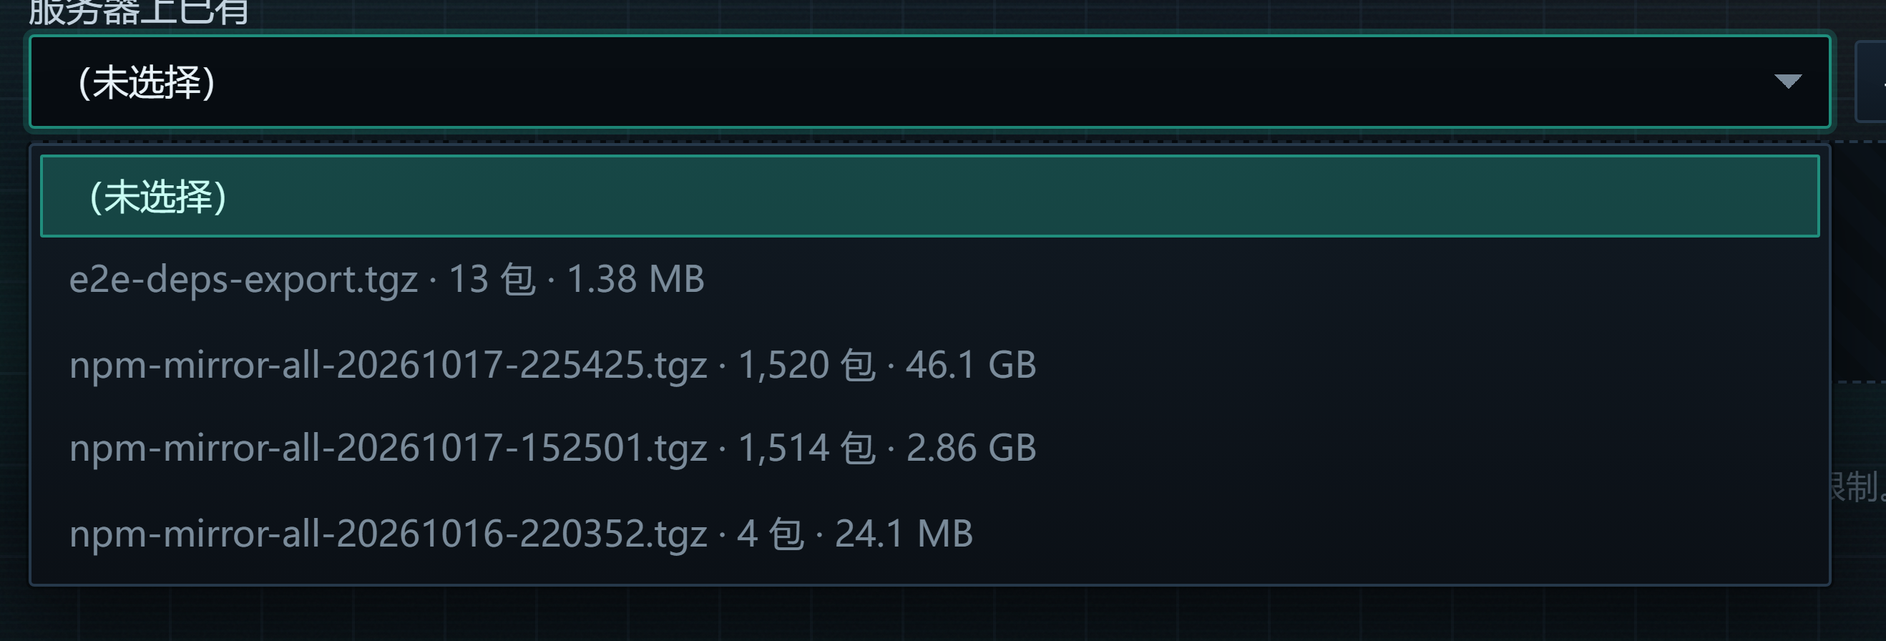
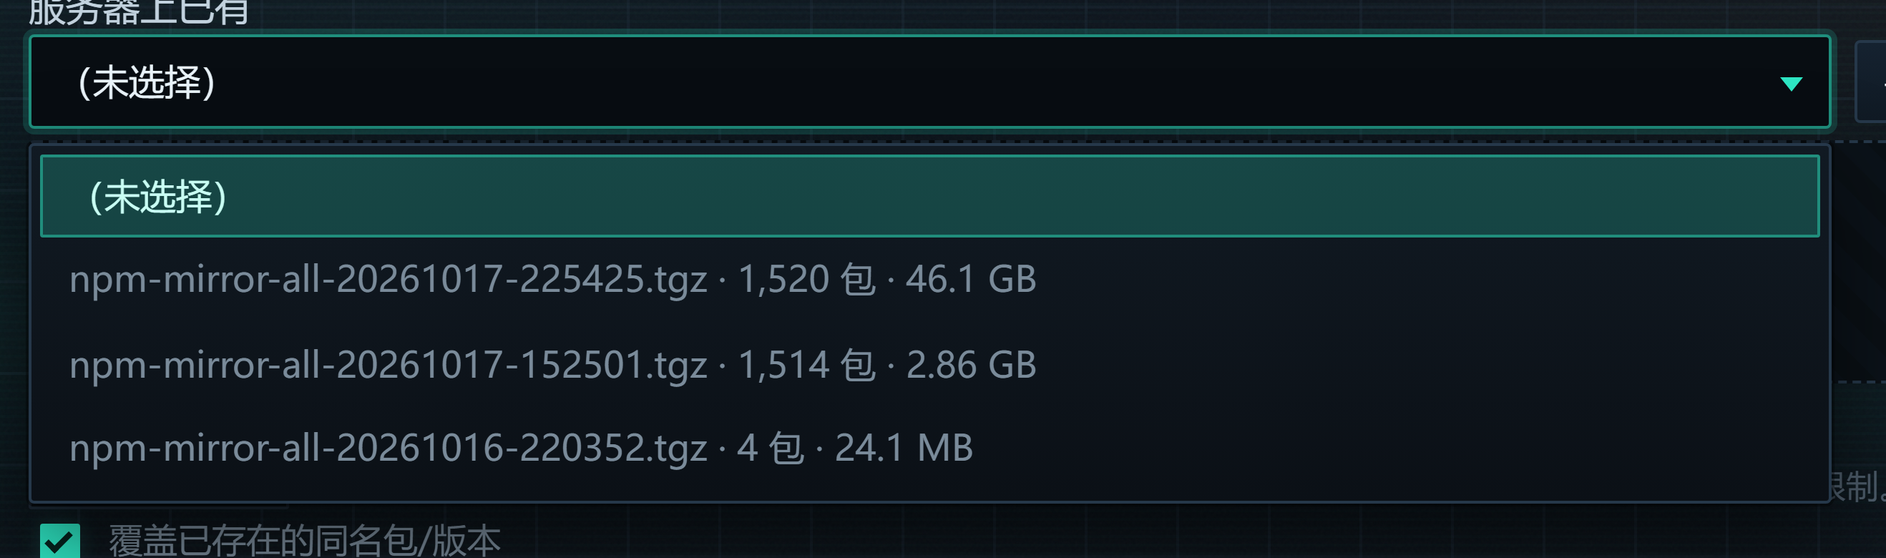
fix(ui): 下拉箭头随悬停/展开变青，复选框对勾与半选更清晰

diff --git a/public/style.css b/public/style.css
@@ -509,8 +509,12 @@ input[type=checkbox]{
 input[type=checkbox]:hover{border-color:var(--line-3)}
 input[type=checkbox]:checked{background:var(--cy);border-color:var(--cy);box-shadow:0 0 8px var(--cy-glow)}
 input[type=checkbox]:checked::after{
-  content:"";display:block;width:3px;height:7px;margin:1px 0 0 4px;
-  border:solid #06231e;border-width:0 2px 2px 0;transform:rotate(42deg);
+  content:"";display:block;width:5px;height:9px;margin:0 0 0 2.5px;
+  border:solid #06231e;border-width:0 2px 2px 0;transform:rotate(45deg);
+}
+input[type=checkbox]:indeterminate{background:var(--cy);border-color:var(--cy);box-shadow:0 0 8px var(--cy-glow)}
+input[type=checkbox]:indeterminate::after{
+  content:"";display:block;width:8px;height:2px;margin:5px 0 0 2px;background:#06231e;
 }
 input[type=checkbox]:disabled{opacity:.4;cursor:not-allowed}
 .checkline{display:inline-flex;align-items:center;gap:7px;font-size:12px;color:var(--txt-dim);cursor:pointer;user-select:none;padding-bottom:3px}
@@ -529,13 +533,19 @@ input[type=checkbox]:disabled{opacity:.4;cursor:not-allowed}
   background:#080d12;border:1px solid var(--line);border-radius:var(--r);
   color:var(--txt-hi);font-size:12.5px;font-family:var(--body);
   transition:border-color .15s,box-shadow .15s,background .15s;
-  background-image:linear-gradient(45deg,transparent 50%,var(--txt-dim) 50%),linear-gradient(135deg,var(--txt-dim) 50%,transparent 50%);
-  background-position:calc(100% - 14px) 51%,calc(100% - 9px) 51%;
-  background-size:5px 5px,5px 5px;background-repeat:no-repeat;
+}
+/* 右侧下拉箭头：边框三角，颜色跟随悬停 / 键盘聚焦 / 展开变成项目青色 */
+.csel-btn::after{
+  content:'';position:absolute;right:9px;top:50%;width:0;height:0;margin-top:-2px;
+  border-left:4px solid transparent;border-right:4px solid transparent;border-top:5px solid var(--txt-dim);
+  transition:border-top-color .15s;pointer-events:none;
 }
 .csel-btn:hover{border-color:var(--line-3)}
+.csel-btn:hover::after{border-top-color:var(--cy)}
 .csel-btn:focus-visible{outline:0;border-color:rgba(46,230,196,.6);box-shadow:0 0 0 2px var(--cy-glow);background-color:#0a1117}
+.csel-btn:focus-visible::after{border-top-color:var(--cy)}
 .csel-btn[aria-expanded=true]{border-color:rgba(46,230,196,.6);box-shadow:0 0 0 2px var(--cy-glow)}
+.csel-btn[aria-expanded=true]::after{border-top-color:var(--cy)}
 .csel-btn[disabled]{opacity:.5;cursor:not-allowed}
 .csel-label{overflow:hidden;text-overflow:ellipsis;white-space:nowrap}
 .field .csel{display:flex;width:100%}

diff --git a/test/ui-check.js b/test/ui-check.js
@@ -750,6 +750,21 @@ async function get(p, { json = false } = {}) {
         && /:focus-visible\{outline:2px solid rgba\(46,230,196,\.5\);outline-offset:2px\}/.test(cssCsel)
         && !/window\.confirm\(/.test(jsCsel)
         && /title: '覆盖已发布版本', sub: 'OVERWRITE', danger: true, confirmText: '覆盖'/.test(jsCsel));
+
+    check('下拉按钮右侧箭头在悬停 / 键盘聚焦 / 展开时变成项目青色（不再固定灰色）',
+      /\.csel-btn::after\{[\s\S]*?border-top:5px solid var\(--txt-dim\)/.test(cssCsel)
+        && /\.csel-btn:hover::after\{border-top-color:var\(--cy\)\}/.test(cssCsel)
+        && /\.csel-btn:focus-visible::after\{border-top-color:var\(--cy\)\}/.test(cssCsel)
+        && /\.csel-btn\[aria-expanded=true\]::after\{border-top-color:var\(--cy\)\}/.test(cssCsel)
+        && /\.dt-sel\[aria-expanded=true\]::after\{border-top-color:var\(--cy\)\}/.test(cssCsel)
+        && !/\.csel-btn\{[^}]*background-image/.test(cssCsel),
+      '箭头用边框三角绘制，颜色随状态切换，避免双渐变拼接的接缝');
+
+    check('复选框对勾放大加粗（5×9、45°）不再像斜线，全选「半选」态有横杠',
+      /input\[type=checkbox\]:checked::after\{[\s\S]*?width:5px;height:9px;[\s\S]*?rotate\(45deg\)/.test(cssCsel)
+        && /input\[type=checkbox\]:indeterminate\{background:var\(--cy\);border-color:var\(--cy\)/.test(cssCsel)
+        && /input\[type=checkbox\]:indeterminate::after\{[\s\S]*?width:8px;height:2px/.test(cssCsel),
+      '对勾两臂 5px/9px，浏览器整数取整后仍是清晰的 ✓；半选态画横杠');
   }
 
   console.log(`\n\x1b[1m结果：${pass}/${pass + fail} 通过\x1b[0m\n`);

diff --git a/public/app.js b/public/app.js
@@ -1341,6 +1341,14 @@
     paintSelbar();
     var tr = $('#pkg-tbody input[data-name="' + (window.CSS && CSS.escape ? CSS.escape(name) : name.replace(/"/g, '\\"')) + '"]');
     if (tr && tr.closest) { var row = tr.closest('tr'); if (row) row.classList.toggle('is-selected', !!on); }
+    /* 同步表头「全选」框：部分勾选显示半选横杠，而不是一直空着 */
+    var chkAll = $('#pkg-chk-all');
+    if (chkAll && state.pkg.items && state.pkg.items.length) {
+      var selCount = 0;
+      state.pkg.items.forEach(function (i) { if (state.pkg.selected[i.name]) selCount++; });
+      chkAll.checked = selCount === state.pkg.items.length;
+      chkAll.indeterminate = selCount > 0 && selCount < state.pkg.items.length;
+    }
   }
 
   function delPackage(name) {

diff --git a/使用说明.md b/使用说明.md
@@ -151,7 +151,7 @@ npm私人镜像源-离线版\
 | 查看包清单 | 包管理列表 | `node cli.js list` / `node cli.js stats` |
 | 从 npm 缓存补包 | 迁移备份 →「扫描缓存目录」→ 候选表分页浏览/筛选 →「导入选中」/「**仅导入不存在的包**」/「**全部导入**」（导入时弹**导入进度**窗口：整体进度 + 逐包详情 + 当前包大进度条，可取消；结束后提示「成功 N 个包（新增 M 个版本 / T 个 tarball），失败 F，跳过 K」） | `node cli.js scan-cache` + `node cli.js import-cache --all` |
 | 换端口 | 配置页改端口 → 保存 → 重启服务 | `node cli.js start --port 5000`（不改配置文件，仅本次） |
-| **下拉框统一样式** | 界面上所有下拉（包管理「来源 / 排序 / 每页条数」、迁移备份「服务器上已有」、日志页「行数 / 级别」、配置项下拉、版本分页等）展开后都是项目风格的自绘深色面板：青色选中/悬停、滚动条沿用项目样式，不会弹出浏览器/系统的白色列表；可用鼠标点，也可用键盘 ↑↓ / Enter / Esc / Tab，点面板外面自动关闭。搜索框的原生清除叉、数字框的原生上下箭头也已收掉 | — |
+| **下拉框统一样式** | 界面上所有下拉（包管理「来源 / 排序 / 每页条数」、迁移备份「服务器上已有」、日志页「行数 / 级别」、配置项下拉、版本分页等）展开后都是项目风格的自绘深色面板：青色选中/悬停、滚动条沿用项目样式，不会弹出浏览器/系统的白色列表；可用鼠标点，也可用键盘 ↑↓ / Enter / Esc / Tab，点面板外面自动关闭。下拉按钮右侧的小箭头会随悬停、键盘聚焦与展开一起变成青色。搜索框的原生清除叉、数字框的原生上下箭头也已收掉。复选框对勾加粗更清晰，全选「半选」态显示一条横杠 | — |
 
 > 说明：批量操作（批量删除、批量导出）走界面或 HTTP 接口；**补 tarball 是后台异步任务**：`POST /__admin/api/packages/pull` 立即返回 `taskId`，再用 `GET /__admin/api/tasks/<id>` 轮询进度（百分比、已下载字节、速率、剩余时间、逐包进度），`POST /__admin/api/tasks/<id>/cancel` 可取消；单包操作命令行也有对应命令（`add` / `remove` / `import` / `export`）。**只要有一个版本没下到，弹窗就不会自动关闭**，会保留失败明细。
 
@@ -194,7 +194,7 @@ npm私人镜像源-离线版\
 | --- | --- | --- |
 | `test/api-test.js` | **241 项**（上游可达时会额外执行 3 项自动补依赖用例，共 244 项；本机实测 235 通过 + 6 项跳过、0 失败，上游可达时 239 通过 + 5 跳过；跳过含 2 项破坏性用例「重启服务 / 清空日志」需加 `--destructive` 开启，其余为条件跳过）：npm 协议、管理接口、公共包回源、私有包发布、上传、一键补 tarball（含后台任务/进度/并发/取消/失败判定）、**任务快照里的逐版本下载进度（`downloads[]`：name/version/received/total，400ms 节流、并发时多条、结束后清空）**、按版本补、**只补最新版本**、**全部包补（不用勾选、自动跳过仅本地的包）**、**全部包补全部版本（`mode=all` 规划到每个包的每个缺失版本、任务标题与可取消、目标数不小于 dist-tag 模式）**、**每个版本的真实发布时间（不能用本地时间顶替）**、**递归添加依赖（层级限制/闭包完整/多版本共存/非注册表依赖识别/带空格范围 `>= 2.1.2 < 3` 的正确解析/`npm:` 别名）**、**包管理页「缺 tarball / 不缺 tarball」快捷筛选（`tarballs=missing|complete` 命中数之和 = 全部包数、各自与逐包 `store.missingTarballs()` 扫描一致、未知取值按「全部」处理）**、离线包导出导入、**导出时自动补齐缺失依赖（cache 模式自动下载入库后一起导出、`autoFetchDeps:false` 不联网、依赖下载失败不中断导出并写明原因、manifest 记录 autoFetch 摘要、自动下载的依赖会被清理）**、**网页上传整机备份（原始体流式导入、声明体积超限提前 413、空请求体 400、会话/列表暴露上传上限、非法上限 400）**、**导出/导入备份的详细进度任务（progress:true → taskId → 轮询到终态、逐包 packages[] 明细、result 字段、原始体 `?progress=1`、**导出收尾写盘阶段（`phase:'concat'` + `concatDone/concatTotal/concatParts` → `phase:'finalize'`）**、取消导出）**、**导出/导入并行（并发配置默认 4、非法并发 400、任务快照带 concurrency、并行打包产物可正常解析、并行导入结果与串行一致）与「tarball 根目录名不是 package」的兼容（自造 odd-root/ 根目录的包能正常导入、导入后能取到版本）**、**tarball 内版本写法被 npm 规范化（packument 1.0.0-beta / tarball 内 1.0.0beta）也能导入**、**任务快照里逐包原因（缺 tarball 的包为 skipped + 「bundle 内缺少 N 个版本的 tarball」、校验失败的包为 failed + integrity 原因，供导入结果详情面板使用）**、单版本删除、npm 缓存导入、**本机缓存导入的进度任务（progress:true → taskId → 逐包 packages[]/current 字段）**、鉴权与服务控制、**安全回归（tarball 路径穿越必须 400/404 且不泄露令牌、管理接口 Origin:null 403、非法配置 400、非法包名 400、版本范围/预发布比较）** | 先启动服务，再 `node test/api-test.js` |
 | `test/acceptance-npm.ps1` | **16 项**：用**真实 npm 命令**跑完整生命周期（install / publish / view / dist-tag add-ls-rm / deprecate / unpublish） | `pwsh -NoProfile -File test\acceptance-npm.ps1` |
-| `test/ui-check.js` | **141 项**：界面静态资源、无外链、前端调用的接口后端都有实现、首屏接口可用、`[hidden]` 兜底样式、**悬停提示自绘浮层（首页无原生 `title`、`el()` 把 `title` 映射成 `data-tip`、`uiTip` 控制器与 `.ui-tip` 样式、项目配色变量）**、**favicon 声明与图标路由（`<link rel="icon">`、GET /favicon.ico 返回项目图标）**、**补 tarball 进度弹窗右栏「版本进度」（每个并发下载版本一行、实时字节文本、上游逐块上报链路、api.js 透传 `downloads`）**、**三个「全部包」批量入口（dist-tag / 最新 / 全部版本）的按钮、绑定、确认框估算和作用域**、**导出依赖闭包与「缺的依赖自动从上游下载并入库」勾选框（`#exp-auto-fetch`、`autoFetchDeps` 透传、结果展示自动下载数量）**、**包管理页「缺 tarball / 不缺 tarball」快捷筛选（两个分段按钮与文案、列表请求带 `&tarballs=`、再点一次取消筛选、后端 store/api 口径、真接口逐行校验）**、**补 tarball 进度弹窗左栏行数上限回收（超过 500 行时收起已完成行、失败/下载中行保留、顶部提示条、源码注入单测）**、**导出/导入进度弹窗右栏多行进度（`inFlight`：导出「并行文件」一行一个正在压缩的条目、导入一个包一行；任务结束清空）**、**导出收尾写盘阶段（`concat` 字节进度 → 任务快照 → 右栏「正在写入 · 拼接分片」，压缩阶段最多 95%）**、**导入进度弹窗（进度行/逐包详情/后端 progress 分支）**、**导入备份的网页上传上限预检与本地文件通路（`#imp-limit-hint`、超限直接拦截并指引 data\bundles、上传错误文案、配置页「离线包上传上限」、服务端流式落盘/提前 413/requestTimeout/413·408 warn 日志）**、**导出/导入备份的详细进度条（整体进度条 + 统计行 + 左右两栏 + 逐包明细 + 当前包大进度条 + XHR 上传字节进度 + /tasks 轮询与取消 + 分阶段说明）**、**离线包并行导出/导入（并发配置默认 4 与范围校验、配置页两个并发字段、多段 gzip 拼接、onEntryDone 条目映射、worker 池按包并行、任务快照 concurrency、「并行 N 路」文案）与「tarball 根目录名不是 package」兼容（readRootPackageJson、根级一层目录正则、兼容导入、跳过原因文案）**、**导入结束后的「导入结果详情」（onFinalize 钩子、失败逐条不重复前缀、跳过按原因归类、复制清单按钮 + 剪贴板回退、可滚动样式）**、**弹窗/抽屉/面板/统计卡内部背景复用整页动态背景（`.fx-box` 动效层 + `isolation:isolate`，与整页网格/扫过亮带一致，不挡点击）**、**导出「按添加时间」范围（segbar 与 `#exp-added-row`、项目风格自绘日期时间选择器、payload `addedFrom/addedTo`、后端 `parseTimeBound/normalizeAddedRange/pkgAddedInRange`、manifest `addedTimeRange`、非法/空范围 400 与提示）与进度弹窗「取消」等待期禁用（`requestTaskCancel` 置灰/「正在取消…」、失败恢复）**、**原生下拉改项目风格自绘下拉（`csel*` 实现：7 个静态 `<select>` + 动态创建/重建选项自动接管、`.csel-btn`/`.csel-menu` 样式与青色选中/悬停、键盘 ↑↓/Enter/Esc 与点外关闭、保留原生 `value`/`change` 语义）**、**搜索框清除叉 / 数字框上下箭头收掉、`:focus-visible` 统一青色描边、原生 `window.confirm` 换 `confirmBox`** | 先启动服务，再 `node test/ui-check.js` |
+| `test/ui-check.js` | **143 项**：界面静态资源、无外链、前端调用的接口后端都有实现、首屏接口可用、`[hidden]` 兜底样式、**悬停提示自绘浮层（首页无原生 `title`、`el()` 把 `title` 映射成 `data-tip`、`uiTip` 控制器与 `.ui-tip` 样式、项目配色变量）**、**favicon 声明与图标路由（`<link rel="icon">`、GET /favicon.ico 返回项目图标）**、**补 tarball 进度弹窗右栏「版本进度」（每个并发下载版本一行、实时字节文本、上游逐块上报链路、api.js 透传 `downloads`）**、**三个「全部包」批量入口（dist-tag / 最新 / 全部版本）的按钮、绑定、确认框估算和作用域**、**导出依赖闭包与「缺的依赖自动从上游下载并入库」勾选框（`#exp-auto-fetch`、`autoFetchDeps` 透传、结果展示自动下载数量）**、**包管理页「缺 tarball / 不缺 tarball」快捷筛选（两个分段按钮与文案、列表请求带 `&tarballs=`、再点一次取消筛选、后端 store/api 口径、真接口逐行校验）**、**补 tarball 进度弹窗左栏行数上限回收（超过 500 行时收起已完成行、失败/下载中行保留、顶部提示条、源码注入单测）**、**导出/导入进度弹窗右栏多行进度（`inFlight`：导出「并行文件」一行一个正在压缩的条目、导入一个包一行；任务结束清空）**、**导出收尾写盘阶段（`concat` 字节进度 → 任务快照 → 右栏「正在写入 · 拼接分片」，压缩阶段最多 95%）**、**导入进度弹窗（进度行/逐包详情/后端 progress 分支）**、**导入备份的网页上传上限预检与本地文件通路（`#imp-limit-hint`、超限直接拦截并指引 data\bundles、上传错误文案、配置页「离线包上传上限」、服务端流式落盘/提前 413/requestTimeout/413·408 warn 日志）**、**导出/导入备份的详细进度条（整体进度条 + 统计行 + 左右两栏 + 逐包明细 + 当前包大进度条 + XHR 上传字节进度 + /tasks 轮询与取消 + 分阶段说明）**、**离线包并行导出/导入（并发配置默认 4 与范围校验、配置页两个并发字段、多段 gzip 拼接、onEntryDone 条目映射、worker 池按包并行、任务快照 concurrency、「并行 N 路」文案）与「tarball 根目录名不是 package」兼容（readRootPackageJson、根级一层目录正则、兼容导入、跳过原因文案）**、**导入结束后的「导入结果详情」（onFinalize 钩子、失败逐条不重复前缀、跳过按原因归类、复制清单按钮 + 剪贴板回退、可滚动样式）**、**弹窗/抽屉/面板/统计卡内部背景复用整页动态背景（`.fx-box` 动效层 + `isolation:isolate`，与整页网格/扫过亮带一致，不挡点击）**、**导出「按添加时间」范围（segbar 与 `#exp-added-row`、项目风格自绘日期时间选择器、payload `addedFrom/addedTo`、后端 `parseTimeBound/normalizeAddedRange/pkgAddedInRange`、manifest `addedTimeRange`、非法/空范围 400 与提示）与进度弹窗「取消」等待期禁用（`requestTaskCancel` 置灰/「正在取消…」、失败恢复）**、**原生下拉改项目风格自绘下拉（`csel*` 实现：7 个静态 `<select>` + 动态创建/重建选项自动接管、`.csel-btn`/`.csel-menu` 样式与青色选中/悬停、键盘 ↑↓/Enter/Esc 与点外关闭、保留原生 `value`/`change` 语义）**、**搜索框清除叉 / 数字框上下箭头收掉、`:focus-visible` 统一青色描边、原生 `window.confirm` 换 `confirmBox`**、**下拉按钮右侧箭头在悬停/键盘聚焦/展开时变青（边框三角，不再用双渐变）**、**复选框对勾 5×9、45° 加粗与全选「半选」横杠、勾选单行时表头同步半选** | 先启动服务，再 `node test/ui-check.js` |
 | `test/tray-check.js` | **48 项**（Windows）：`tools\tray.ps1` 契约（托盘图标 = 项目 favicon、左键显示/右键动态菜单、只显示与当前窗口状态对应的项、就绪后才隐藏、WM_SETICON、退出时走 `/service/shutdown` 并关窗、服务外部停止后自动退出、UTF-8 BOM）、`public\favicon.ico` 结构（多尺寸/32 位/偏移合法）、`启动镜像源.cmd`（`start /b powershell` 拉起托盘、不传 `-Root`、保留前台 `node cli.js start`、`%*` 透传、`MIRROR_AUTOSTART` 隐藏启动）、**开机自启（`.vbs` UTF-16LE 启动项、VBS 内容、旧 `.cmd` 清理、`off` 幂等、`status`，临时目录真跑）**、server.js 的 favicon 分支并实测 `GET /favicon.ico` 与图标文件字节一致，最后真跑一次托盘 `-SelfTest` 校验菜单文案与图标加载 | 先启动服务，再 `node test/tray-check.js` |
 | `test/tray-e2e.ps1` | **托盘端到端（8 项，手工跑）**：隔离副本里用真实 `启动镜像源.cmd` 启动 → 服务在线 + 命令行窗口被隐藏 + 托盘日志正确 → 窗口能被重新显示（模拟左键）→ `cli.js stop` 后托盘自动退出并关窗 | `powershell -NoProfile -ExecutionPolicy Bypass -File test\tray-e2e.ps1`（需真实桌面；不碰真实实例数据） |
 | `test/ui-e2e-fill.js` | 真机（无头浏览器）点击「勾选包 → 补 tarball」，采样**真实进度百分比/速率**并截图 | `node test/ui-e2e-fill.js --pkg ms --mode all`（沙箱内需放宽权限） |

diff --git a/报告.md b/报告.md
@@ -107,7 +107,7 @@ npm私人镜像源-离线版\
 ├─ 截图\                            管理界面六个页面的实拍 PNG
 └─ test\                            自检与验收脚本
     ├─ api-test.js        2579 行   服务端 + npm 协议（当前 241 项；环境不足 / 破坏性用例会显式 SKIP）
-    ├─ ui-check.js         769 行   界面 141 项
+    ├─ ui-check.js         784 行   界面 143 项
     ├─ tray-check.js               托盘/图标/启动脚本/开机自启 48 项（含真跑一次托盘自检）
     ├─ tray-e2e.ps1                托盘端到端手工脚本（隔离副本，需真实桌面）
     ├─ acceptance-npm.ps1  141 行   真实 npm 客户端 16 项
@@ -939,10 +939,10 @@ pwsh test/acceptance-npm.ps1 →  16/16 通过
 | --- | --- |
 | 用户要求 | 用户发来截图（迁移备份 →「导入备份」→「服务器上已有」的下拉，展开是浏览器原生白色列表）并提出：「下拉选择的弹窗也和项目风格不一致，需要调整。彻底检查项目中其他的与项目风格不一致的组件、元素，然后调整为和项目风格一致。」 |
 | 结论 | 原生 `<select>` 展开的列表、搜索框的清除叉、数字框的上下箭头、`window.confirm` 对话框都由浏览器/系统绘制，CSS 改不了颜色与结构；统一换成项目风格自绘组件，同时保留原生 `value`/`change` 语义，业务代码零改动 |
-| 改动 | ① `public/app.js` 新增通用自绘下拉：`cselEnhance(sel)` 把每个 `<select>` 包进 `.csel` 容器（原生 select 隐藏、`.csel-btn` 显示当前项、`.csel-menu` 挂到 body 按 fixed 定位），`cselBuild/cselShow/cselClose/cselPlace` 负责构建/展开/关闭/定位（下方放不下自动翻到上方、夹在视口内），`cselPick` 写回 `selectedIndex` 并派发原生 `input`+`change`，`cselOnKey` 支持 ↑↓ / Enter / Space / Esc / Tab，`cselOnDown`/`cselOnScroll` 点外面或滚动自动关闭；`initCustomSelects()` 启动时接管全部 select，并用 `MutationObserver` 自动接管动态创建的 select 与重建的选项（包详情分页、配置项、导入备份列表）；`data-tip` 从 select 搬到按钮上。② `public/style.css` 新增 `.csel-btn`（深色按钮、双三角箭头、hover/展开青色描边、禁用半透明）、`.csel-menu`（深色渐变面板、`.csel-opt` 悬停青色淡底、选中项青色填充 + 描边、沿用项目全局 10px 深色滚动条）；③ 全站原生小部件清理：搜索框原生清除叉、数字框原生上下箭头全部隐藏，`:focus-visible` 统一青色描边；④ 上传同名版本 409 时的 `window.confirm` 换成项目自绘 `confirmBox`（标题「覆盖已发布版本」、danger 红、详细说明） |
-| 实测 | 真机（1680×1080，无头 Chrome）：7 个静态 `<select>` + 2 个动态 select 全部接管，原生 select `display:none`；包管理「来源」下拉 5 项、深色菜单、选中/悬停青色高亮（截图 [截图/包管理-来源筛选-自绘下拉.png](截图/包管理-来源筛选-自绘下拉.png)）；键盘 ↓ ↓ Enter 把值切到 `private` 并触发 `change`（包列表重新加载）；迁移页「服务器上已有」下拉 4 个备份、长文件名不溢出、选择后按钮文字同步（截图 [截图/导入备份-bundle下拉-自绘.png](截图/导入备份-bundle下拉-自绘.png)）；配置页「运行模式」下拉 2 项、选中项青色（截图 [截图/配置-运行模式-自绘下拉.png](截图/配置-运行模式-自绘下拉.png)）；点页面空白处弹层关闭；搜索框输入 `react` 后没有原生清除叉（截图 [截图/包管理-搜索框无原生清除叉.png](截图/包管理-搜索框无原生清除叉.png)）、数字框聚焦后没有上下箭头（截图 [截图/配置-数字输入框无上下箭头.png](截图/配置-数字输入框无上下箭头.png)）；自绘按钮与项目输入框同高（33.375px）同字号（12.5px） |
-| 测试 | `test/ui-check.js` 新增「十之四、原生下拉改自绘 + 全站原生小部件清理」3 项（原生 select 全部接管 + MutationObserver、自绘下拉样式/键盘/change 语义、原生小部件清理 + confirmBox）→ **141/141 通过**；`api-test` 未重跑（纯前端改动）；无头浏览器回归：`ui-e2e-detail.js` exit 0 全过、`ui-e2e-migrate.js` **58/58**、`ui-e2e-fill-all.js` **37/37**（`ui-e2e-fill.js` 因该包 tarball 已补齐、观察不到下载中间态退出 1，属环境限制） |
-| 截图 | [截图/包管理-来源筛选-自绘下拉.png](截图/包管理-来源筛选-自绘下拉.png)、[截图/导入备份-bundle下拉-自绘.png](截图/导入备份-bundle下拉-自绘.png)、[截图/配置-运行模式-自绘下拉.png](截图/配置-运行模式-自绘下拉.png)、[截图/包管理-搜索框无原生清除叉.png](截图/包管理-搜索框无原生清除叉.png)、[截图/配置-数字输入框无上下箭头.png](截图/配置-数字输入框无上下箭头.png) |
+| 改动 | ① `public/app.js` 新增通用自绘下拉：`cselEnhance(sel)` 把每个 `<select>` 包进 `.csel` 容器（原生 select 隐藏、`.csel-btn` 显示当前项、`.csel-menu` 挂到 body 按 fixed 定位），`cselBuild/cselShow/cselClose/cselPlace` 负责构建/展开/关闭/定位（下方放不下自动翻到上方、夹在视口内），`cselPick` 写回 `selectedIndex` 并派发原生 `input`+`change`，`cselOnKey` 支持 ↑↓ / Enter / Space / Esc / Tab，`cselOnDown`/`cselOnScroll` 点外面或滚动自动关闭；`initCustomSelects()` 启动时接管全部 select，并用 `MutationObserver` 自动接管动态创建的 select 与重建的选项（包详情分页、配置项、导入备份列表）；`data-tip` 从 select 搬到按钮上。② `public/style.css` 新增 `.csel-btn`（深色按钮、右侧三角箭头、hover/展开青色描边、禁用半透明）、`.csel-menu`（深色渐变面板、`.csel-opt` 悬停青色淡底、选中项青色填充 + 描边、沿用项目全局 10px 深色滚动条）；③ 全站原生小部件清理：搜索框原生清除叉、数字框原生上下箭头全部隐藏，`:focus-visible` 统一青色描边；④ 上传同名版本 409 时的 `window.confirm` 换成项目自绘 `confirmBox`（标题「覆盖已发布版本」、danger 红、详细说明）；⑤ 下拉按钮右侧箭头改为**边框三角**绘制（`::after`，不再用两条 `linear-gradient` 拼，避免展开时颜色不变和接缝），悬停 / 键盘聚焦 / 展开三态都变项目青色 `var(--cy)`；⑥ 复选框选中对勾由 3×7/42° 改为 **5×9/45° 并加粗**（14px 实际尺寸下不再是「一根斜线」），全选「半选」态补画横杠，并修 `toggleSelect` 勾选单行时表头全选框不更新 `indeterminate` 的问题 |
+| 实测 | 真机（1680×1080，无头 Chrome）：7 个静态 `<select>` + 2 个动态 select 全部接管，原生 select `display:none`；包管理「来源」下拉 5 项、深色菜单、选中/悬停青色高亮（截图 [截图/包管理-来源筛选-自绘下拉.png](截图/包管理-来源筛选-自绘下拉.png)）；键盘 ↓ ↓ Enter 把值切到 `private` 并触发 `change`（包列表重新加载）；迁移页「服务器上已有」下拉 4 个备份、长文件名不溢出、选择后按钮文字同步（截图 [截图/导入备份-bundle下拉-自绘.png](截图/导入备份-bundle下拉-自绘.png)）；配置页「运行模式」下拉 2 项、选中项青色（截图 [截图/配置-运行模式-自绘下拉.png](截图/配置-运行模式-自绘下拉.png)）；点页面空白处弹层关闭；搜索框输入 `react` 后没有原生清除叉（截图 [截图/包管理-搜索框无原生清除叉.png](截图/包管理-搜索框无原生清除叉.png)）、数字框聚焦后没有上下箭头（截图 [截图/配置-数字输入框无上下箭头.png](截图/配置-数字输入框无上下箭头.png)）；自绘按钮与项目输入框同高（33.375px）同字号（12.5px）。放大实测：收起时箭头 `border-top-color: rgb(122,139,154)`，展开/悬停/聚焦后 `rgb(46,230,196)` 且边框 `rgba(46,230,196,.6)`；复选框在 14px 实际尺寸下缩放 6 倍确认是清晰的「✓」两臂（截图 [截图/复选框-对勾.png](截图/复选框-对勾.png)），包管理表头勾选一行后显示半选横杠（截图 [截图/复选框-全选半选.png](截图/复选框-全选半选.png)） |
+| 测试 | `test/ui-check.js` 新增「十之四、原生下拉改自绘 + 全站原生小部件清理」3 项（原生 select 全部接管 + MutationObserver、自绘下拉样式/键盘/change 语义、原生小部件清理 + confirmBox），再加「十之四」2 项（下拉箭头三态变青且不再用双渐变、复选框对勾 5×9/45° 与半选横杠）→ **143/143 通过**；`api-test` 未重跑（纯前端改动）；无头浏览器回归：`ui-e2e-detail.js` exit 0 全过、`ui-e2e-migrate.js` **58/58**、`ui-e2e-fill-all.js` **37/37**（`ui-e2e-fill.js` 因该包 tarball 已补齐、观察不到下载中间态退出 1，属环境限制） |
+| 截图 | [截图/包管理-来源筛选-自绘下拉.png](截图/包管理-来源筛选-自绘下拉.png)、[截图/导入备份-bundle下拉-自绘.png](截图/导入备份-bundle下拉-自绘.png)、[截图/配置-运行模式-自绘下拉.png](截图/配置-运行模式-自绘下拉.png)、[截图/包管理-搜索框无原生清除叉.png](截图/包管理-搜索框无原生清除叉.png)、[截图/配置-数字输入框无上下箭头.png](截图/配置-数字输入框无上下箭头.png)、[截图/复选框-对勾.png](截图/复选框-对勾.png)、[截图/复选框-全选半选.png](截图/复选框-全选半选.png) |
 
 ## 十、最终状态
 
@@ -958,7 +958,7 @@ pwsh test/acceptance-npm.ps1 →  16/16 通过
 - 导出/导入支持**多包并行**：`storage.bundleExportConcurrency`（并行压缩，默认 4）与 `storage.bundleImportConcurrency`（同时处理的包数，默认 4）均可配置（1–16），统计行会显示「并行 N 路」；**自己导出的整机备份再导入不会再误判成坏包**——tarball 根目录名不是 `package/`（`@types/*` 这类历史包）、版本写法被 npm 规范化（`1.0.0beta` vs `1.0.0-beta`）、上游元数据写的版本与键不一致（如 npmmirror 的 `npm@6.8.0`）都能正常导入（实测 2.86GB 整机包 1,508 包 / 4,551 版本全部导入、0 失败，约 98 秒）。
 - 导入离线包结束（成功或取消）后，弹窗最下方会整理出**「导入结果详情」**：失败逐条列出「包名@版本：原因」、跳过按原因归类计数，右上角「复制清单」一键复制全部，不用再去左栏一条条翻。
 - 双击「启动镜像源.cmd」启动后，**命令行窗口在服务就绪后自动隐藏，右下角托盘出现项目图标**（薄荷绿圆角方块，自绘 `public/favicon.ico`，同时用作浏览器 favicon 和命令行窗口图标）；左键单击托盘图标叫回窗口，右键菜单按当前状态动态显示「打开控制台 / 隐藏控制台」+ 永远存在的「打开管理界面」（默认浏览器打开网页端管理页面）与「退出镜像源」（先优雅停服务再关窗），用「停止镜像源.cmd」停服务时托盘会自动检测并退出。
-- 十一套自检脚本均可重复执行：`test\run-all.js` 一键跑（要求服务已启动，Windows 下先跑托盘自检再跑 api-test）。脚本会先给要改动的包做快照/备份，收尾按快照恢复；依赖上游或本机缓存的用例在环境不满足时显式 SKIP（计入「跳过」而不是假通过）。`test\tray-e2e.ps1` 是托盘端到端手工脚本（需要真实桌面，用隔离副本启动，不碰真实实例数据），`test\tray-check.js` 的 48 项、`test\ui-check.js` 的 141 项、`test\ui-e2e-fill-all.js` 的 37 项与 `test\api-test.js` 的 241 项（235 通过 + 6 跳过）均可随 `run-all.js` 一起跑。
+- 十一套自检脚本均可重复执行：`test\run-all.js` 一键跑（要求服务已启动，Windows 下先跑托盘自检再跑 api-test）。脚本会先给要改动的包做快照/备份，收尾按快照恢复；依赖上游或本机缓存的用例在环境不满足时显式 SKIP（计入「跳过」而不是假通过）。`test\tray-e2e.ps1` 是托盘端到端手工脚本（需要真实桌面，用隔离副本启动，不碰真实实例数据），`test\tray-check.js` 的 48 项、`test\ui-check.js` 的 143 项、`test\ui-e2e-fill-all.js` 的 37 项与 `test\api-test.js` 的 241 项（235 通过 + 6 跳过）均可随 `run-all.js` 一起跑。
 - 自检与实测会在镜像里留下 `mirror-selftest-*`（api-test 会在收尾时自动删掉）、`mirror-e2e-*`（e2e 自建自删），以及 `debug`、`express` 等验证补 tarball 时添加的包——不需要的话在【包管理】页勾选删除，或 `node cli.js remove <包名> --yes`。
 - 「依赖完整性审计」补进来的 180 多个包都是**传递依赖**（不是测试残留）：它们保证你已经下载的包在断网后仍然装得上；如果确实不想要，可在【包管理】页按关键词勾选后批量删除（例如搜 `@babel`、`pug`、`socket.io`）。
 - 自检脚本 `test\api-test.js` 五之七会临时剪掉 `chalk`/`ansi-styles`/`supports-color`/`has-flag`/`color-convert`/`color-name` 这 6 个包来构造干净场景，跑完会**按版本原样补回**：剪之前先把包目录备份到临时目录并记录已缓存版本，收尾先尝试 `POST /packages` 从上游补回，失败（离线/上游不可达）则直接从本地备份把包目录拷回 `data\storage`，因此反复执行也不会弄丢镜像里的包。

diff --git a/README.md b/README.md
@@ -14,7 +14,7 @@
 - **公共包缓存**：`npm install` 走本镜像时自动回源上游（默认 `https://registry.npmmirror.com`）并缓存元数据与 tarball；支持 `cache`（本地优先）/ `proxy`（过期即回源）/ `offline`（纯离线）三种模式
 - **私有包仓库**：支持 `npm publish`、`npm unpublish`、`npm deprecate`、`npm dist-tag`，私有包与上游同名包隔离，不会混淆
 - **离线迁移**：导出整个镜像为单个 `.tgz` bundle，拷贝到无网络电脑后导入；也支持直接导入本机 `~/.npm/_cacache` 已有缓存。**导出选中包时默认连带递归依赖，镜像里没有的依赖会在联网模式下自动从上游下载并入库再一起打包**；下载失败不会中断导出，失败依赖会连原因一起记进 bundle 清单并在界面/命令行提示。**导出和导入都有详细进度弹窗**：一条总进度（导出按字节/文件数，导入按解包字节与包数）+ 逐包明细（已打包 / 新增 / 失败 / 跳过）+ 右栏并行进度（导出「并行文件」一行一个正在压缩的文件，导入「并行包」一行一个在导入的包），长任务可取消；**导出压缩完成后把并行分片拼成最终 `.tgz` 也有进度**（压缩阶段进度条最多停在 95%，统计行显示「正在拼接分片写入最终 .tgz：X / Y GB」、右栏标题切「正在写入 · 拼接分片」，写完再显示「正在写入 · 收尾」，49.4GB 的整机备份这段约 30~60 秒，不会再出现「100% 却不动」的错觉）。**导出还支持「按添加时间」范围**（只带走某段时间内首次添加进本地镜像的包，留空一端表示不限，时间按本机时区；起止时间点点击输入框会弹出**项目风格的自绘日历弹层**：月历 + 时/分自绘下拉 + 清除/现在/取消/确定，不是浏览器原生日历）；**导出/导入都支持多包并行**（默认 4 路，可配置），备份再导入不会因为 tarball 根目录名不叫 `package/` 而误判成坏包（`@types/*` 这类历史包也能正常导入）。**导入结束后弹窗底部会整理出一块「导入结果详情」**：失败逐条列出（`包名@版本：原因`）、跳过按原因归类计数，右上角一键复制清单，不用再去左栏一条条翻。
-- **可视化管理界面**：概览、包管理、迁移备份（含本机缓存导入）、配置、日志、服务控制共 6 个页面，中文界面，全按钮操作；包详情、依赖解析、任务进度以抽屉/弹窗呈现；**所有鼠标悬停提示都是项目风格的自绘浮层**（深色面板 + 青色强调条 + 等宽小字），不是浏览器原生 `title` 小黄框；**所有原生下拉的展开列表都换成了项目风格的自绘下拉**（触发按钮 + 深色面板、青色选中/悬停，支持鼠标、键盘 ↑↓/Enter/Esc/Tab 与点外面关闭；底层保留原生 `<select>` 语义，`value`/`change` 读写不变，动态创建/重建选项的下拉也会自动接管），搜索框的原生清除叉、数字框的原生上下箭头一并收掉，浏览器原生 `confirm` 换成项目风格确认框；**整页的动态背景（32px 网格 + 扫描线 + 光晕 + 噪点 + 9 秒扫过亮带）同样铺进每个弹窗、抽屉、面板与统计卡的内部背景**（动效层 `pointer-events:none`，不挡点击、不影响滚动）；**任务进度弹窗里的「取消」在等待取消完成期间会禁用置灰，只有取消失败才恢复可点**
+- **可视化管理界面**：概览、包管理、迁移备份（含本机缓存导入）、配置、日志、服务控制共 6 个页面，中文界面，全按钮操作；包详情、依赖解析、任务进度以抽屉/弹窗呈现；**所有鼠标悬停提示都是项目风格的自绘浮层**（深色面板 + 青色强调条 + 等宽小字），不是浏览器原生 `title` 小黄框；**所有原生下拉的展开列表都换成了项目风格的自绘下拉**（触发按钮 + 深色面板、青色选中/悬停，支持鼠标、键盘 ↑↓/Enter/Esc/Tab 与点外面关闭；底层保留原生 `<select>` 语义，`value`/`change` 读写不变，动态创建/重建选项的下拉也会自动接管），搜索框的原生清除叉、数字框的原生上下箭头一并收掉，浏览器原生 `confirm` 换成项目风格确认框；**整页的动态背景（32px 网格 + 扫描线 + 光晕 + 噪点 + 9 秒扫过亮带）同样铺进每个弹窗、抽屉、面板与统计卡的内部背景**（动效层 `pointer-events:none`，不挡点击、不影响滚动）；**任务进度弹窗里的「取消」在等待取消完成期间会禁用置灰，只有取消失败才恢复可点**；**下拉按钮右侧的小箭头在悬停、键盘聚焦与展开时也会一起变成项目青色**；**复选框对勾加粗更清晰，全选「半选」态显示横杠**
 - **补齐工具链**：勾选的包一键补 tarball（dist-tag / 只补最新 / 全部版本），包管理页还有三个**不用勾选**的批量入口：「全部包补 dist-tag 版本」「全部包补最新版本」「**全部包补全部版本**」（最全，把每个包所有缺失版本都补齐，确认框会先给出还要补多少个版本的估计）；递归添加依赖（含 `npm:` 别名），后台任务可看进度、可取消（进度弹窗右栏按**每个并发下载的版本**实时显示单文件字节数）；包管理列表还有**「缺 tarball / 不缺 tarball」快捷筛选**（点一下只看还没补全的包，再点一次同一个按钮取消）；补 tarball 进度弹窗左栏最多保留 500 行，超出后自动收起「已完成」的包，给还没下完的包腾位置（出错的包永远保留，顶部提示条写明已收起多少行）；导出/导入备份的进度弹窗右栏会列出**正在并行处理的项**：导出时一行一个正在压缩的文件（`包名 · tarballs/xxx.tgz` + 文件大小 +「压缩中…」，行数＝真正并发的路数，收尾阶段也不会塌成 1 行），导入时一行一个正在导入的包（已处理版本数 / 总数，一个 worker 一个包），不再只剩 1 个「当前包」
 - **零依赖实现**：HTTP 服务、tar.gz 打包解包、semver 比较、npm 协议、断点与完整性校验全部手写，无任何第三方包
 
@@ -189,7 +189,7 @@ pwsh -File test/acceptance-npm.ps1   # 真实 npm 客户端验收（Windows / Po
 | 脚本 | 内容 | 最近结果（2026-10-18，本机） |
 | --- | --- | --- |
 | `test/api-test.js` | npm 协议、管理接口、发布/删除、离线导入导出、进度任务（含逐版本 `downloads[]` 实时进度）、并行导出导入与根目录/版本写法兼容、导出时自动补齐缺失依赖、全部包补全部版本规划、安全回归、包管理页「缺 tarball / 不缺 tarball」快捷筛选等 241 项（上游可达时会额外执行 3 项自动补依赖用例，共 244 项） | **235 通过 + 6 跳过，0 失败**（上游可达时 239 通过 + 5 跳过） |
-| `test/ui-check.js` | 前端与后端接口/页面元素契约（含导入结果的失败/跳过详情面板、导出自动补依赖勾选项、全部包补全部版本入口、补 tarball 弹窗「版本进度」栏、「缺 tarball / 不缺 tarball」快捷筛选、悬停提示自绘浮层（首页无原生 title、el() 把 title 映射成 data-tip、uiTip 控制器、`.ui-tip` 样式与项目配色变量）、补 tarball 左栏行数上限回收（`reclaimRow` 只收已完成行、失败行保留、提示条）、导出/导入进度弹窗右栏多行进度（`inFlight`：导出按「并行文件」一行一个正在压缩的条目、导入一个包一行）、导出收尾写盘阶段（`concat` 字节进度 → 任务快照 `concatDone/concatTotal` → 右栏「正在写入 · 拼接分片」，压缩阶段最多 95%）、**弹窗/抽屉/面板/统计卡内部背景复用整页动态背景（`.fx-box` 动效层 + `isolation:isolate`，与整页 32px 网格/扫过亮带一致、不挡点击）**、**导出「按添加时间」范围（segbar 与自绘日期时间选择器 `#exp-added-row`、payload `addedFrom/addedTo`、后端 `addedTimeRange` 清单、非法/空范围 400 与提示）与进度弹窗「取消」等待期禁用（`requestTaskCancel` 置灰/「正在取消…」、成功保持禁用、失败恢复可点）**、**原生下拉改项目风格自绘下拉（`csel*` 实现：7 个静态 `<select>` + 动态创建/重建选项的接管、`.csel-btn/.csel-menu` 样式、键盘与点外关闭、保留原生 `change` 语义）**、**搜索框清除叉 / 数字框上下箭头收掉、`:focus-visible` 统一青色描边、原生 `window.confirm` 换 `confirmBox`**、favicon 声明） | **141/141 通过** |
+| `test/ui-check.js` | 前端与后端接口/页面元素契约（含导入结果的失败/跳过详情面板、导出自动补依赖勾选项、全部包补全部版本入口、补 tarball 弹窗「版本进度」栏、「缺 tarball / 不缺 tarball」快捷筛选、悬停提示自绘浮层（首页无原生 title、el() 把 title 映射成 data-tip、uiTip 控制器、`.ui-tip` 样式与项目配色变量）、补 tarball 左栏行数上限回收（`reclaimRow` 只收已完成行、失败行保留、提示条）、导出/导入进度弹窗右栏多行进度（`inFlight`：导出按「并行文件」一行一个正在压缩的条目、导入一个包一行）、导出收尾写盘阶段（`concat` 字节进度 → 任务快照 `concatDone/concatTotal` → 右栏「正在写入 · 拼接分片」，压缩阶段最多 95%）、**弹窗/抽屉/面板/统计卡内部背景复用整页动态背景（`.fx-box` 动效层 + `isolation:isolate`，与整页 32px 网格/扫过亮带一致、不挡点击）**、**导出「按添加时间」范围（segbar 与自绘日期时间选择器 `#exp-added-row`、payload `addedFrom/addedTo`、后端 `addedTimeRange` 清单、非法/空范围 400 与提示）与进度弹窗「取消」等待期禁用（`requestTaskCancel` 置灰/「正在取消…」、成功保持禁用、失败恢复可点）**、**原生下拉改项目风格自绘下拉（`csel*` 实现：7 个静态 `<select>` + 动态创建/重建选项的接管、`.csel-btn/.csel-menu` 样式、键盘与点外关闭、保留原生 `change` 语义）**、**搜索框清除叉 / 数字框上下箭头收掉、`:focus-visible` 统一青色描边、原生 `window.confirm` 换 `confirmBox`**、**下拉按钮箭头三态（悬停/键盘聚焦/展开）变青、复选框对勾加粗与全选「半选」横杠、勾选单行时表头全选框同步半选**、favicon 声明） | **143/143 通过** |
 | `test/tray-check.js` | 托盘脚本/项目图标/启动脚本/favicon 路由契约（含右键菜单「打开管理界面」）、**开机自启（`.vbs` 隐藏启动项 / UTF-16LE BOM / 旧 `.cmd` 清理 / `off` 幂等，临时目录真跑）**，并真跑一次托盘自检（Windows） | **48/48 通过** |
 | `test/tray-e2e.ps1` | 托盘端到端：隔离副本启动 → 窗口隐藏 → 可重新显示 → 停服务后托盘退出并关窗 | **8/8 通过（手工）** |
 | `test/acceptance-npm.ps1` | 真实 `npm install / publish / dist-tag / deprecate / unpublish` | **16/16 通过** |

diff --git a/CHANGELOG.md b/CHANGELOG.md
@@ -13,7 +13,7 @@
 - **三种运行模式**：`cache`（本地优先，默认）、`proxy`（按 TTL 回源更新）、`offline`（纯离线）
 - **公共包缓存**：自动回源 `https://registry.npmmirror.com`，缓存元数据与 tarball；记录每个版本的真实发布时间
 - **私有包仓库**：私有包与上游同名包隔离，私有包不回源合并（防依赖混淆）
-- **中文可视化管理界面**：概览、包管理、迁移备份（含本机缓存导入）、配置、日志、服务控制共 6 个页面，包详情与任务进度以抽屉/弹窗呈现；整页的网格 / 扫描线 / 光晕 / 噪点动态背景同样铺进弹窗、抽屉、面板与统计卡的内部背景（不挡点击）；任务进度弹窗的「取消」在等待取消完成期间置灰，取消失败才恢复可点；界面上所有原生下拉的展开列表都换成项目风格自绘（深色面板、青色选中/悬停、键盘 ↑↓/Enter/Esc、点面板外关闭，底层保留原生 `value`/`change` 语义），搜索框原生清除叉与数字框原生上下箭头收掉，`:focus-visible` 统一青色描边，原生 `window.confirm` 换成项目风格确认框
+- **中文可视化管理界面**：概览、包管理、迁移备份（含本机缓存导入）、配置、日志、服务控制共 6 个页面，包详情与任务进度以抽屉/弹窗呈现；整页的网格 / 扫描线 / 光晕 / 噪点动态背景同样铺进弹窗、抽屉、面板与统计卡的内部背景（不挡点击）；任务进度弹窗的「取消」在等待取消完成期间置灰，取消失败才恢复可点；界面上所有原生下拉的展开列表都换成项目风格自绘（深色面板、青色选中/悬停、键盘 ↑↓/Enter/Esc、点面板外关闭，底层保留原生 `value`/`change` 语义），搜索框原生清除叉与数字框原生上下箭头收掉，`:focus-visible` 统一青色描边，原生 `window.confirm` 换成项目风格确认框；下拉按钮右侧的小箭头在悬停、键盘聚焦与展开时一起变青（改为边框三角绘制，无渐变接缝），复选框对勾加粗更清晰、全选「半选」态显示横杠，勾选单行时表头全选框同步半选
 - **离线迁移**：导出整个镜像为单个 `.tgz` bundle，在无网络环境导入；支持按 `all / private / upstream / selected / added` 范围导出（`added` = 按「首次添加进本地镜像」的时间段筛选；起止时间点为「只读输入框 + 项目风格自绘日历弹层」：月历 + 时/分自绘下拉 + 清除/现在/取消/确定）
 - **本机 npm 缓存导入**：扫描 `~/.npm/_cacache`（含 `.npmrc` 自定义缓存目录），按页展示候选包，支持全部导入 / 仅导入不存在的包 / 覆盖导入，带逐包进度并可取消
 - **依赖递归添加**：自动解析依赖闭包，支持层级/数量限制、多版本共存、非注册表依赖识别、带空格版本范围与 `npm:` 别名
